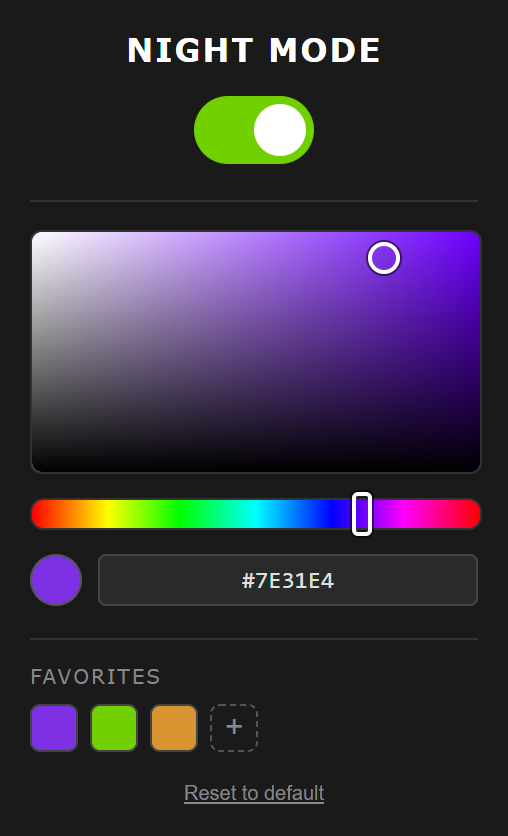
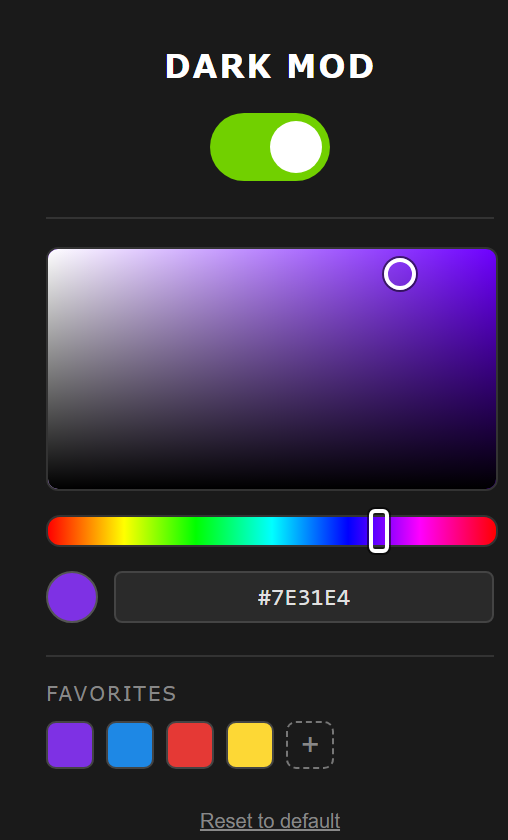
fix(travian-extensions): Travian Dark Mod 2.7.1

Changed region(s): [[0.0591, 0.2488, 1.0, 0.7464], [0.0591, 0.7775, 0.6791, 0.9952], [0.2362, 0.0311, 0.7382, 0.2177]]

diff --git a/projects/travian-extensions/extensions/travian_night_mode/content.js b/projects/travian-extensions/extensions/travian_night_mode/content.js
@@ -73,7 +73,7 @@ const THEME = {
 }
 
 
-/* aliance */
+/* alliance */
 #allianceBonusWrapper #contributionBox #bonusSelection label,
 .roundedCornersBox h4 {
   filter: hue-rotate(var(--nm-hue-purple)) saturate(2) brightness(0.8) contrast(1.3) !important;
@@ -429,7 +429,7 @@ tr.hover:hover td{
   color: var(--nm-white) !important;
 }
 
-/* 1. Make the main backdrop pink */
+/* 1. Dark backdrop for feature dialogs */
 .dialogContainer,
 .dialogContainer .dialogContents,
 .dialogContainer .content,
@@ -972,7 +972,7 @@ div.a2b table#short_info {
 	// BUTTONS
 	// ────────────────────────────────────────────────────────────
 	buttons: `
-/* Green rectangular buttons */
+/* Gold rectangular buttons */
 .buttonFramed.rectangle.gold:before {
   filter: hue-rotate(198deg) saturate(2) !important;
 }
@@ -1199,15 +1199,11 @@ button.textButtonV1.gold.disabled, button.textButtonV1.gold:disabled { color: va
 }
 
 /* Waterworks "Bonus level" node (Annexed oasis flow diagram) keeps its
-   native near-white background while night mode lightens the text, leaving
+   native near-white background while the theme lightens the text, leaving
    a glaring white box. Match it to the dark surface. */
 .bonusLevelInformation,
 .bonusLevelInformation .levelAbove {
   background-color: var(--nm-base) !important;
-}
-
-#tradeRoutes > div.tradeRouteCollection > div > div {
-  color: var(--nm-base) !important;
 }
 
 div.a2b table#troops td {
@@ -1495,12 +1491,10 @@ button.icon::before {
   inset: 0;
   z-index: -1; /* Place it behind the image */
   
-  /* Apply the background image here */
   /* Resolved at runtime from the game's current gpack (see runtimeVarsCss) */
   background-image: var(--nm-icon-btn-img, none);
   background-size: cover;
   
-  /* Apply your filter here */
   filter: grayscale(1) brightness(0.5) opacity(0.5);
   
   pointer-events: none; /* Make sure it doesn't block clicks */
@@ -2246,13 +2240,13 @@ td.vil.fc {
 .quests .dailyQuest .titleDecoration::before,
 .quests .dailyQuest .titleDecoration::after,
 .quests .dailyQuest .tasks > div {
-  background-color: var(--nm-elevated) !important; /* Change this color */
+  background-color: var(--nm-elevated) !important;
   background-image: none !important;
 }
 
 #dailyQuestsRewardScreen > div.rewardWrapper > div.titleDecoration::before,
 #dailyQuestsRewardScreen > div.rewardWrapper > div.titleDecoration::after {
-  background-color: var(--nm-elevated) !important; /* Change this color */
+  background-color: var(--nm-elevated) !important;
   background-image: none !important;
 }
 
@@ -2270,7 +2264,7 @@ td.vil.fc {
 .quests .dailyQuest .questAchievedPoints .points,
 .quests .dailyQuest .questAchievedPoints::before,
 .quests .dailyQuest .questAchievedPoints::after {
-  background-color: transparent !important; /* Change this color */
+  background-color: transparent !important;
   background-image: none !important;
 }
 
@@ -2412,8 +2406,8 @@ const { themeAttribute, themeValues, defaultButtonColor } = NIGHT_MODE_CONFIG;
 
 let themeObserver = null; // watches <html> for a (new) <body>
 let bodyObserver = null; // watches <body>'s data-theme
-// The game's own data-theme before night mode overrode it; restored when
-// night mode is switched off, so the player's in-game choice survives.
+// The game's own data-theme before Dark Mod overrode it; restored when
+// Dark Mod is switched off, so the player's in-game choice survives.
 let originalTheme;
 let currentButtonColor = defaultButtonColor;
 
@@ -2451,13 +2445,13 @@ function runtimeVarsCss() {
 	if (currentButtonColor !== defaultButtonColor) decls.push(`--nm-btn-purple: ${currentButtonColor};`);
 	const base = gpackBase();
 	if (base) {
-		const url = (base + ICON_BUTTON_IMG).replace(/["\\n]/g, "");
+		const url = (base + ICON_BUTTON_IMG).replace(/["\\\r\n]/g, "");
 		decls.push(`--nm-icon-btn-img: url("${url}");`);
 	}
 	return `:root { ${decls.join(" ")} }`;
 }
 
-// Rewrites the runtime variables while night mode is on.
+// Rewrites the runtime variables while Dark Mod is on.
 function updateRuntimeVars() {
 	if (!themeStyle) return;
 	varsStyle ??= addStyle("");
@@ -2513,7 +2507,10 @@ function setNightMode(isEnabled) {
 		startThemeObserver();
 	} else {
 		stopThemeObserver();
-		document.body?.setAttribute(themeAttribute, originalTheme ?? themeValues.light);
+		// Only restore a theme this script captured (and therefore overrode).
+		if (originalTheme !== undefined) {
+			document.body?.setAttribute(themeAttribute, originalTheme ?? themeValues.light);
+		}
 		removeCSS();
 	}
 }
@@ -2550,7 +2547,7 @@ const ROUND_BUTTON_RECOLOR_CSS = `
  * Adds or removes the round-button recolor based on the current setting:
  *   - default sentinel → remove the override → the game's native buttons
  *   - any hex color    → inject the override, tinted to that color
- * Also removes the override when night mode is off. A color change only
+ * Also removes the override when Dark Mod is off. A color change only
  * updates the CSS variable; the stylesheet itself is never re-parsed.
  */
 function applyButtonColor() {

diff --git a/projects/travian-extensions/extensions/travian_night_mode/popup.js b/projects/travian-extensions/extensions/travian_night_mode/popup.js
@@ -1,5 +1,5 @@
 // Travian Dark Mod — popup controller.
-// Night-mode toggle + a custom dark HSV color picker (the native <input type=color>
+// Dark Mod toggle + a custom dark HSV color picker (the native <input type=color>
 // dialog can't be themed) with savable favorite colors. Loads state on open;
 // persists & broadcasts to open Travian tabs on change.
 
@@ -22,6 +22,8 @@ const DEFAULT_SWATCH = "#71d000";
 // Favorites: stored as an array of hex strings; seeded once with the signature
 // purple so the strip isn't empty on first run.
 const FAV_KEY = "favoriteColors";
+const NIGHT_KEY = "nightMode";
+const COLOR_KEY = "purpleButtonColor";
 const MAX_FAVS = 12;
 const SEED_FAVS = ["#7e31e4"];
 
@@ -44,9 +46,19 @@ const TRAVIAN_URL_PATTERNS = [
 // Broadcast a message to every open Travian tab so changes apply without a refresh.
 // Tabs without the content script yet pick up the stored preference on load.
 function broadcast(message) {
-	chrome.tabs.query({ url: TRAVIAN_URL_PATTERNS }).then((tabs) => {
-		for (const tab of tabs) chrome.tabs.sendMessage(tab.id, message).catch(() => {});
-	});
+	chrome.tabs
+		.query({ url: TRAVIAN_URL_PATTERNS })
+		.then((tabs) => {
+			for (const tab of tabs) chrome.tabs.sendMessage(tab.id, message).catch(() => {});
+		})
+		.catch((error) => console.error("Travian Dark Mod: could not reach Travian tabs", error));
+}
+
+// Persists settings; a failed write is logged instead of becoming an unhandled rejection.
+function save(items) {
+	chrome.storage.local
+		.set(items)
+		.catch((error) => console.error("Travian Dark Mod: could not save settings", error));
 }
 
 // Live preview while dragging or typing: at most one broadcast per frame.
@@ -155,7 +167,7 @@ function setFromHex(hex) {
 // Persist the current color as the chosen button color and push it to tabs.
 function persistCurrent() {
 	const hex = currentHex();
-	chrome.storage.local.set({ purpleButtonColor: hex });
+	save({ [COLOR_KEY]: hex });
 	broadcast({ buttonColor: hex });
 }
 
@@ -237,12 +249,14 @@ function renderFavorites() {
 		swatch.className = "fav-swatch";
 		swatch.style.backgroundColor = hex;
 		swatch.title = hex.toUpperCase();
+		swatch.setAttribute("aria-label", hex.toUpperCase());
 		swatch.addEventListener("click", () => applyColor(hex));
 
 		const remove = document.createElement("span");
 		remove.className = "fav-remove";
 		remove.textContent = "×";
 		remove.title = "Remove";
+		remove.setAttribute("aria-hidden", "true");
 		remove.addEventListener("click", (e) => {
 			e.stopPropagation();
 			removeFavorite(hex);
@@ -258,20 +272,21 @@ function renderFavorites() {
 		add.className = "fav-add";
 		add.textContent = "+";
 		add.title = "Save current color";
+		add.setAttribute("aria-label", "Save current color");
 		add.addEventListener("click", addCurrentFavorite);
 		favRow.appendChild(add);
 	}
 }
 
 function saveFavorites() {
-	chrome.storage.local.set({ [FAV_KEY]: favorites });
+	save({ [FAV_KEY]: favorites });
 }
 
 function addCurrentFavorite() {
 	const hex = currentHex().toLowerCase();
 	if (favorites.length >= MAX_FAVS) return;
 	if (favorites.some((c) => c.toLowerCase() === hex)) return;
-	favorites.push(hex);
+	favorites = [...favorites, hex];
 	saveFavorites();
 	renderFavorites();
 }
@@ -286,7 +301,7 @@ function removeFavorite(hex) {
 
 toggle.addEventListener("change", () => {
 	const isNight = toggle.checked;
-	chrome.storage.local.set({ nightMode: isNight });
+	save({ [NIGHT_KEY]: isNight });
 	broadcast({ nightMode: isNight });
 });
 
@@ -294,18 +309,18 @@ resetColor.addEventListener("click", () => {
 	// Show the native-green swatch in the picker, but store/broadcast the sentinel
 	// so the content script drops the override entirely (vanilla buttons).
 	setFromHex(DEFAULT_SWATCH);
-	chrome.storage.local.set({ purpleButtonColor: DEFAULT_STATE });
+	save({ [COLOR_KEY]: DEFAULT_STATE });
 	broadcast({ buttonColor: DEFAULT_STATE });
 });
 
 // ── Initial load ──────────────────────────────────────────────────────────────
 
 chrome.storage.local
-	.get({ nightMode: true, purpleButtonColor: DEFAULT_STATE, [FAV_KEY]: null })
+	.get({ [NIGHT_KEY]: true, [COLOR_KEY]: DEFAULT_STATE, [FAV_KEY]: null })
 	.then((res) => {
-		toggle.checked = res.nightMode !== false;
+		toggle.checked = res[NIGHT_KEY] !== false;
 		// An unreadable stored color shows the default swatch, not black.
-		if (res.purpleButtonColor === DEFAULT_STATE || !setFromHex(res.purpleButtonColor)) {
+		if (res[COLOR_KEY] === DEFAULT_STATE || !setFromHex(res[COLOR_KEY])) {
 			setFromHex(DEFAULT_SWATCH);
 		}
 		// Drop anything in the favorites list that isn't a #rrggbb color, so one
@@ -317,4 +332,5 @@ chrome.storage.local
 		if (res[FAV_KEY] === null) saveFavorites();
 		renderFavorites();
 	})
-	.catch((error) => console.error("Travian Dark Mod: could not load settings", error));
+	.catch((error) => console.error("Travian Dark Mod: could not load settings", error))
+	.finally(() => requestAnimationFrame(() => document.body.classList.remove("loading")));

diff --git a/projects/travian-extensions/extensions/travian_night_mode/popup.html b/projects/travian-extensions/extensions/travian_night_mode/popup.html
@@ -1,5 +1,5 @@
 <!doctype html>
-<html>
+<html lang="en">
 	<head>
 		<meta charset="utf-8" />
 		<style>
@@ -16,7 +16,7 @@
 				color: #e0e0e0; /* Light Text */
 			}
 
-			h3 {
+			h1 {
 				margin-top: 0;
 				margin-bottom: 14px;
 				font-size: 16px;
@@ -68,8 +68,22 @@
 				background-color: #71d000;
 			}
 
-			input:focus + .slider {
-				box-shadow: 0 0 1px #71d000;
+			input:focus-visible + .slider {
+				outline: 2px solid #71d000;
+				outline-offset: 2px;
+			}
+
+			/* No switch slide while the stored state loads, or under reduced motion. */
+			.loading .slider,
+			.loading .slider:before {
+				transition: none;
+			}
+
+			@media (prefers-reduced-motion: reduce) {
+				.slider,
+				.slider:before {
+					transition: none;
+				}
 			}
 
 			input:checked + .slider:before {
@@ -241,7 +255,7 @@
 				height: 24px;
 				padding: 0;
 				border-radius: 5px;
-				border: 1px dashed #555;
+				border: 1px dashed #777;
 				background: none;
 				color: #888;
 				font-size: 16px;
@@ -263,15 +277,17 @@
 				border: none;
 				color: #888;
 				font-size: 10px;
+				padding: 6px 8px;
+				min-height: 24px;
 				text-decoration: underline;
 				cursor: pointer;
 			}
 		</style>
 	</head>
-	<body>
-		<h3>Dark Mod</h3>
+	<body class="loading">
+		<h1>Dark Mod</h1>
 		<label class="switch">
-			<input type="checkbox" id="toggleNight" />
+			<input type="checkbox" id="toggleNight" aria-label="Dark Mod" />
 			<span class="slider"></span>
 		</label>
 

diff --git a/projects/travian-extensions/extensions/travian_night_mode/README.md b/projects/travian-extensions/extensions/travian_night_mode/README.md
@@ -2,8 +2,8 @@
 
 Adds a persistent dark theme and configurable button colours to Travian pages.
 
-**Version 2.7 · JavaScript · Manifest V3**
+**Version 2.7.1 · JavaScript · Manifest V3**
 
-[Usage guide](../../docs/USAGE.md#night-mode) · [Installation](../../README.md#install-in-brave-chrome-or-edge) · [All extensions](../../README.md)
+[Usage guide](../../docs/USAGE.md#night-mode) · [Installation](../../README.md#installing) · [All extensions](../../README.md)
 
 Load this directory with **Load unpacked** in a desktop Chromium browser. No build step is required. Refresh the game page after installation or updates.

diff --git a/projects/travian-extensions/CHANGELOG.md b/projects/travian-extensions/CHANGELOG.md
@@ -1,5 +1,12 @@
 # Changelog
 
+## Travian Dark Mod 2.7.1 — 2026-11-18
+
+- The small button background image loads again; its URL lost every letter "n".
+- Loading a page with Dark Mod switched off no longer replaces the game's own theme.
+- Popup: the switch has a screen-reader name and a visible focus ring, favourites have colour names, and motion respects reduced-motion settings.
+- Failed setting saves are logged instead of failing silently.
+
 ## Travian Dark Mod 2.7.0 — 2026-11-18
 
 - Night Mode is renamed Travian Dark Mod for the Chrome Web Store.
